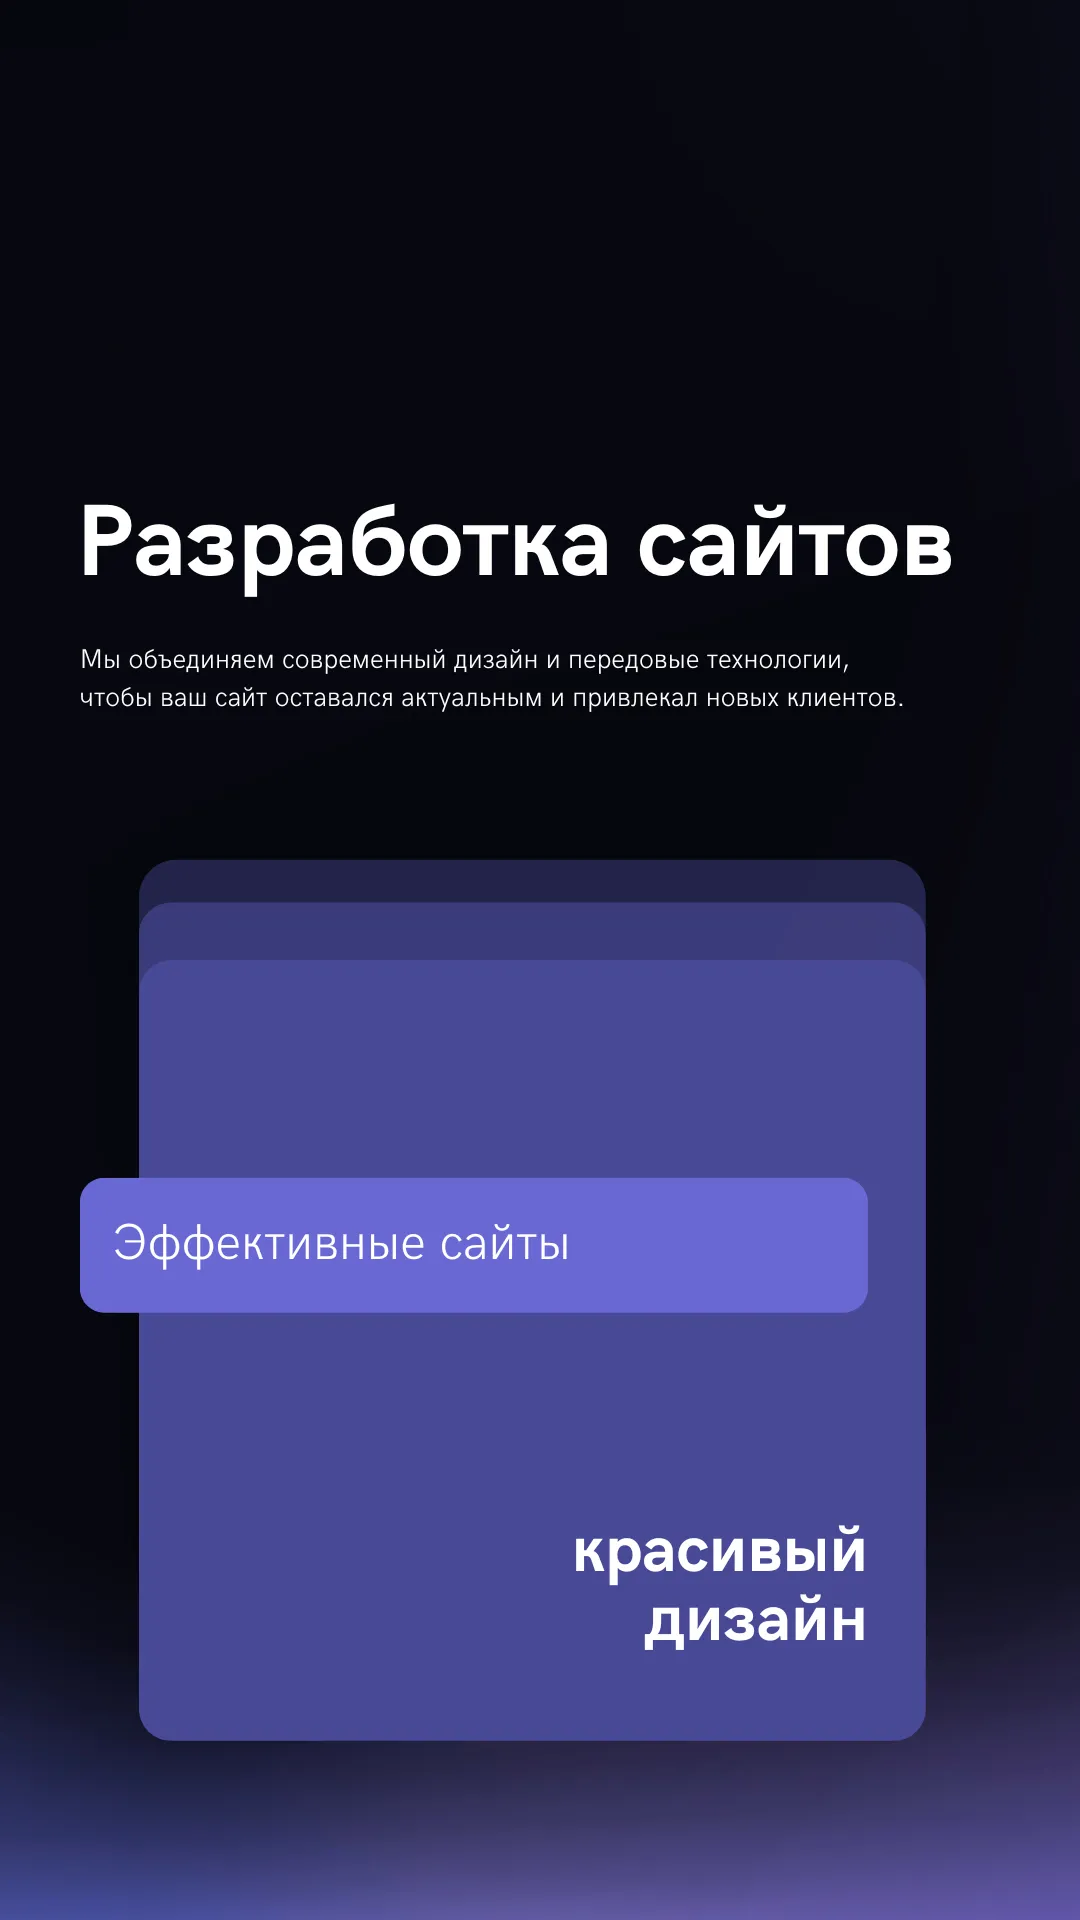
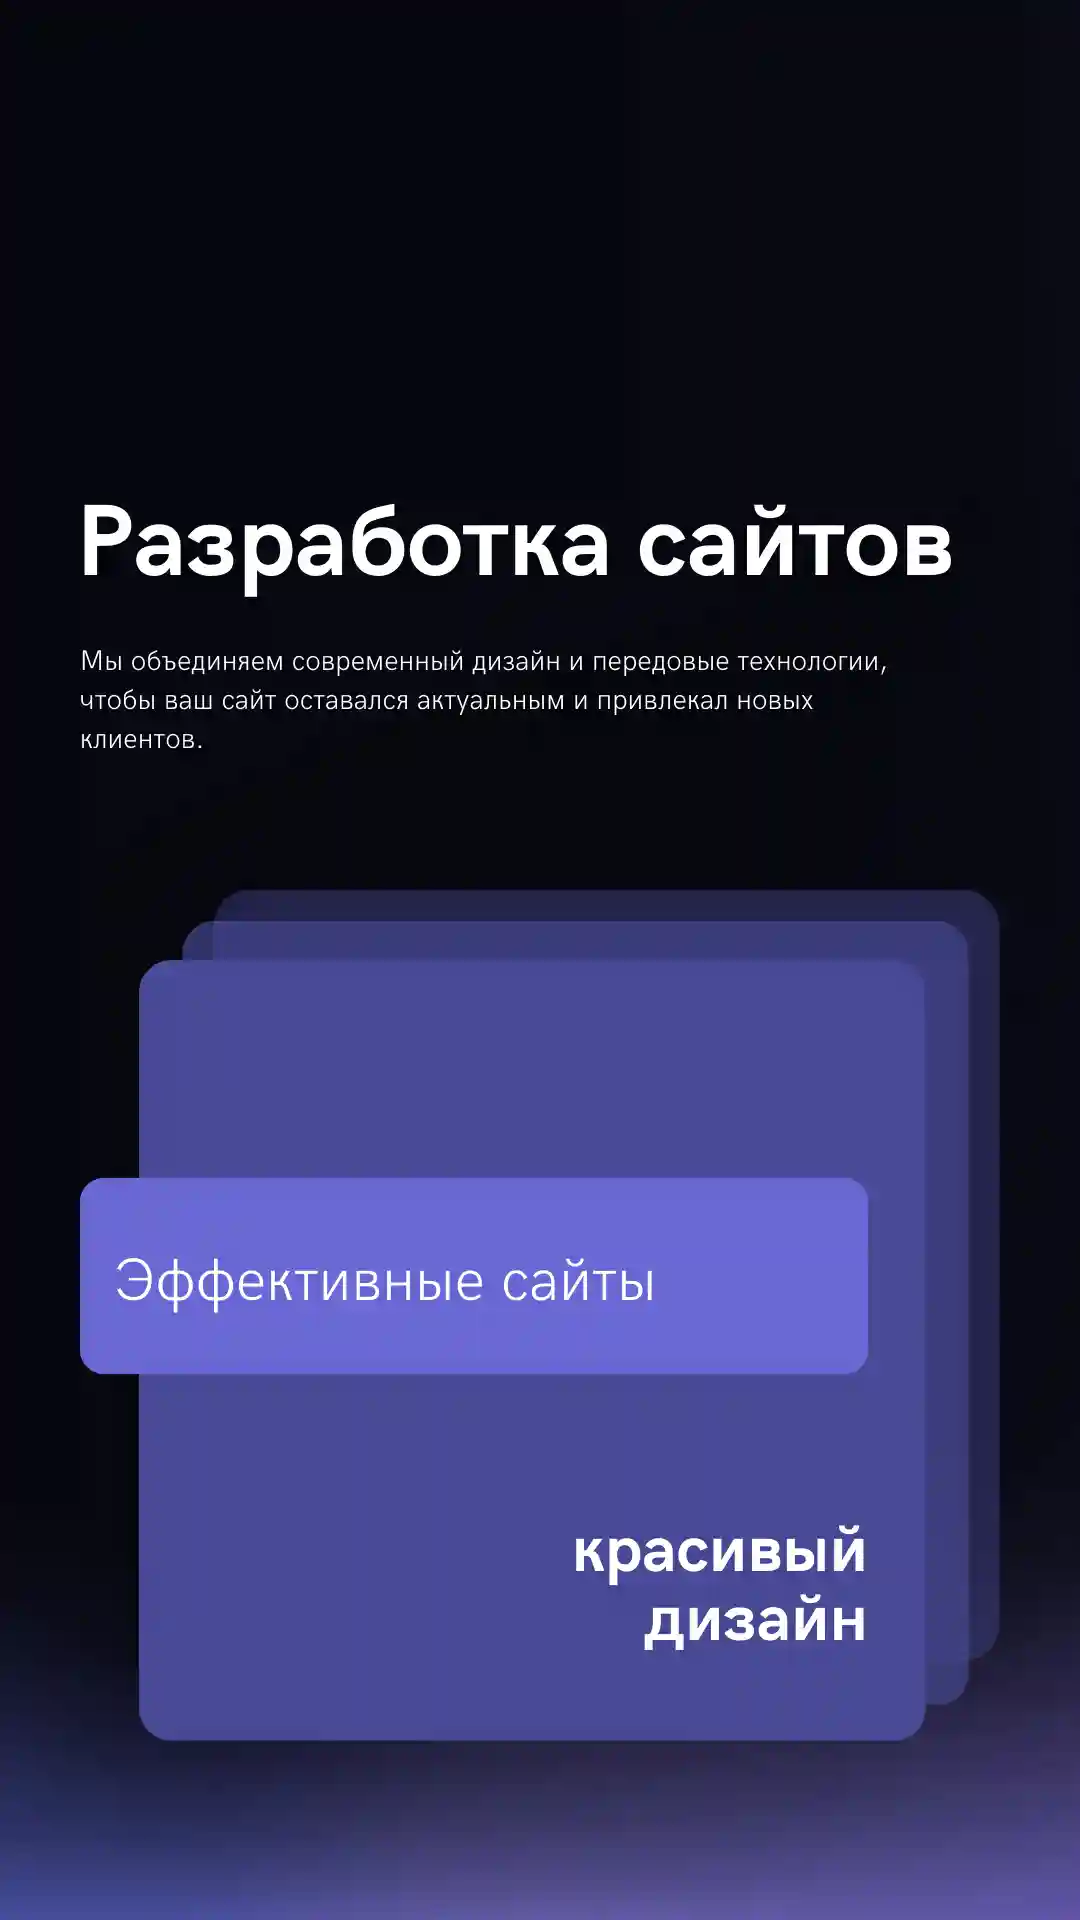
carousel 7-big

Changed region(s): [[0.1222, 0.4375, 0.9472, 0.9062], [0.0611, 0.625, 0.825, 0.7188], [0.0611, 0.3438, 0.825, 0.4062]]

diff --git a/components/CarouselComp/CarouselComp.js b/components/CarouselComp/CarouselComp.js
@@ -13,22 +13,32 @@ const CarouselComp = ({ main, }) => {
 					<Carousel autoplay pauseOnHover={false} effect='fade'>
 						<div>
 							<Image
+								src={screens.xs === undefined && '/main/8-small.webp' || screens.xs ? '/main/8-small.webp' : '/main/7-big.webp'}
+								alt='Банер страницы по разработки сайтов'
+								width={screens.xs ? 1080 : 1920}
+								height={screens.xs ? 1920 : 1080}
+								loading="eager"
+							/>
+						</div>
+						{/* <div>
+							<Image
 								src={screens.xs === undefined && '/main/3-small.webp' || screens.xs ? '/main/3-small.webp' : '/main/4-big.webp'}
 								alt='Банер страницы по разработки сайтов'
 								width={screens.xs ? 1080 : 1920}
 								height={screens.xs ? 1920 : 1080}
 								loading="eager"
 							/>
-						</div>
+						</div> */}
 						<div>
 							<Image
-								src={screens.xs === undefined && '/main/2-small2.webp' || screens.xs ? '/main/2-small.webp' : '/main/1-big.webp'}
+								src={screens.xs === undefined && '/main/2-small2.webp' || screens.xs ? '/main/2-small2.webp' : '/main/1-big.webp'}
 								alt='Банер страницы по разработки сайтов'
 								width={screens.xs ? 1080 : 1920}
 								height={screens.xs ? 1920 : 1080}
 								loading="eager"
 							/>
 						</div>
+						
 					</Carousel>
 					:
 					<Carousel autoplay pauseOnHover={false} effect='fade'>
